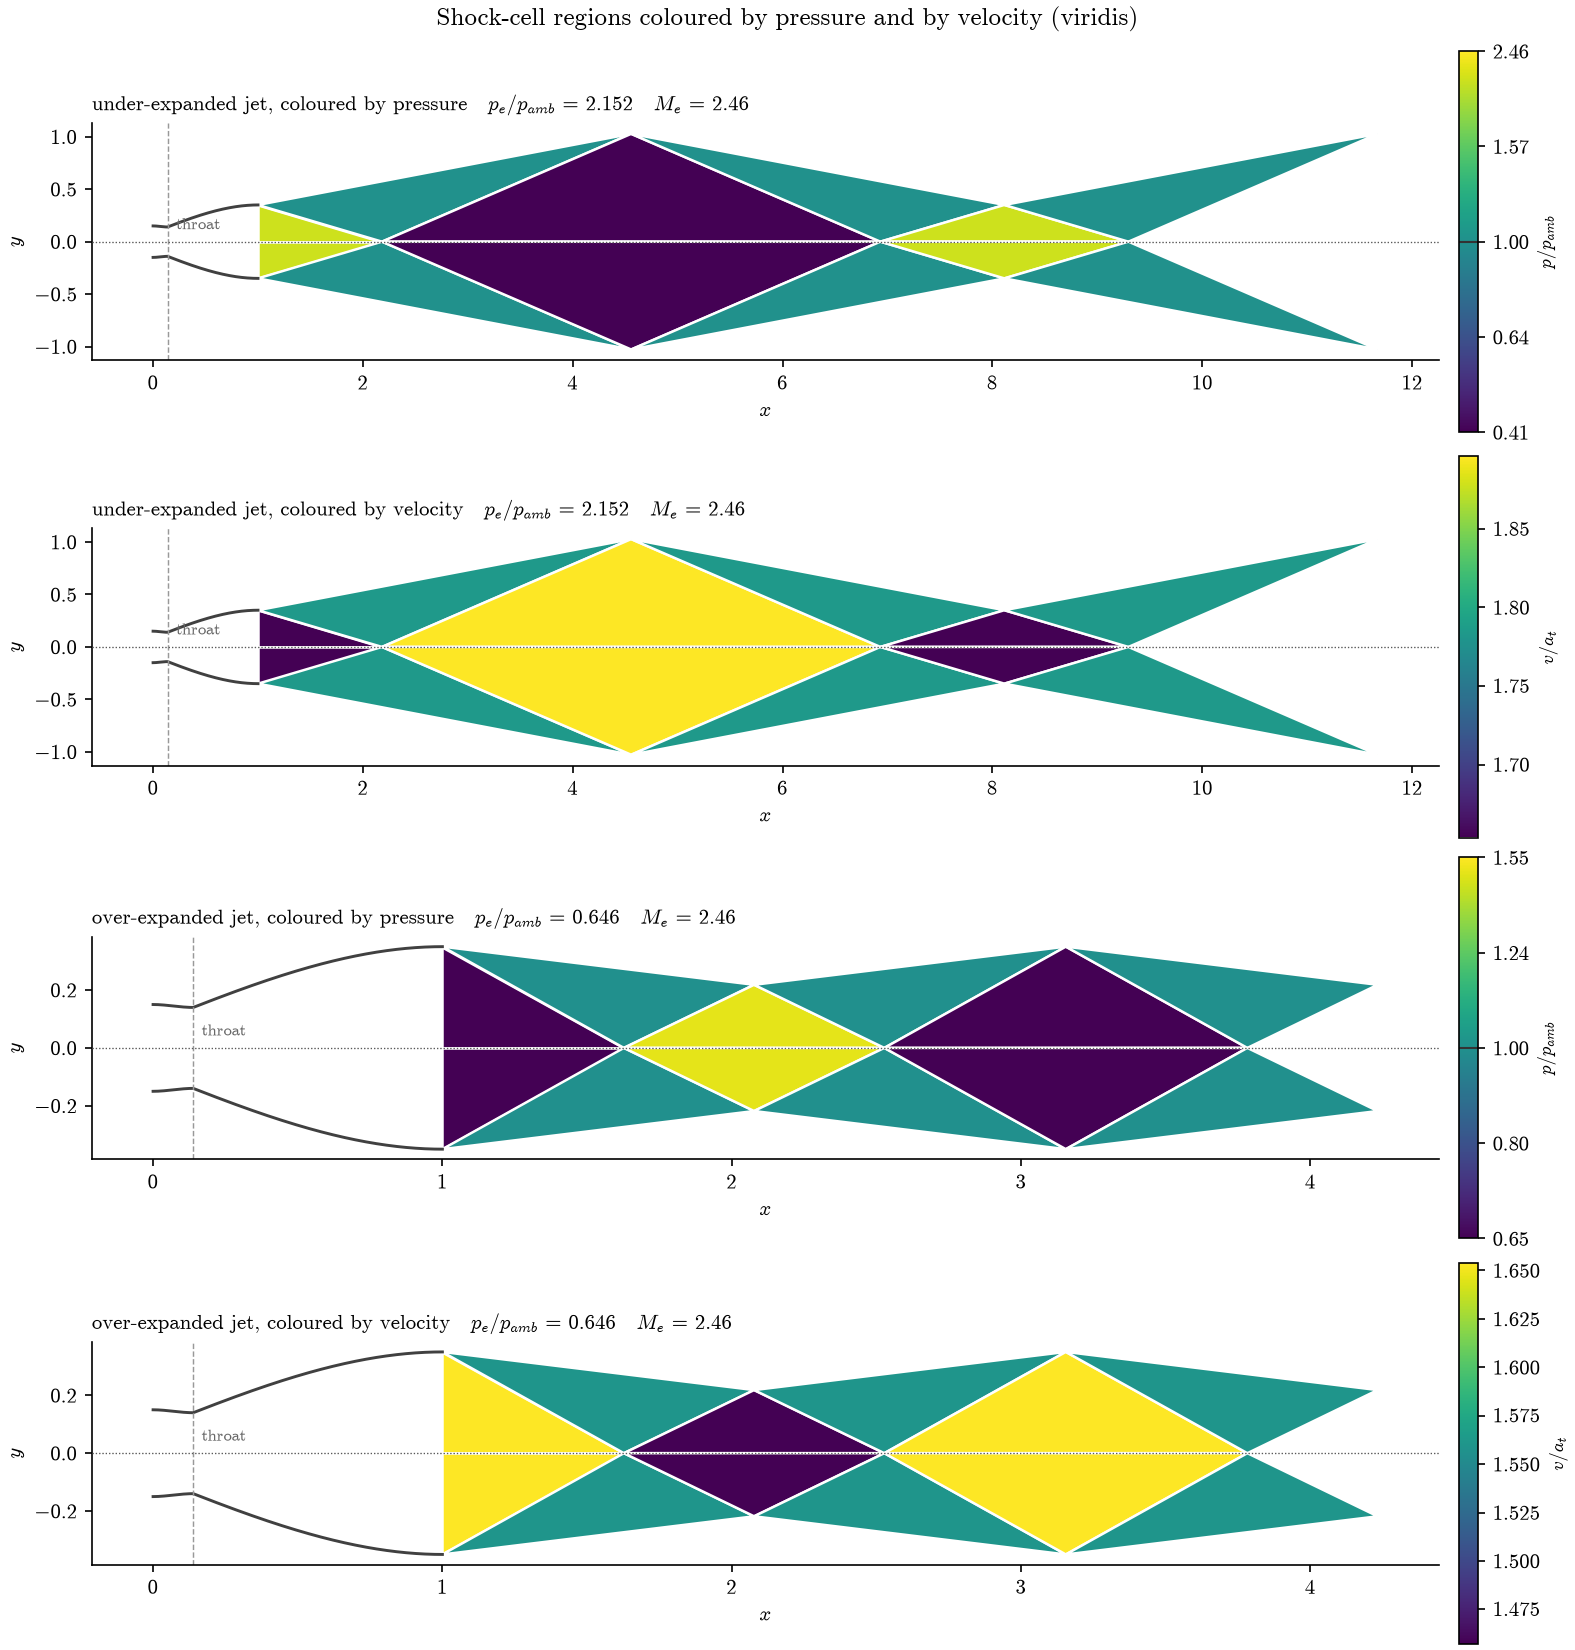
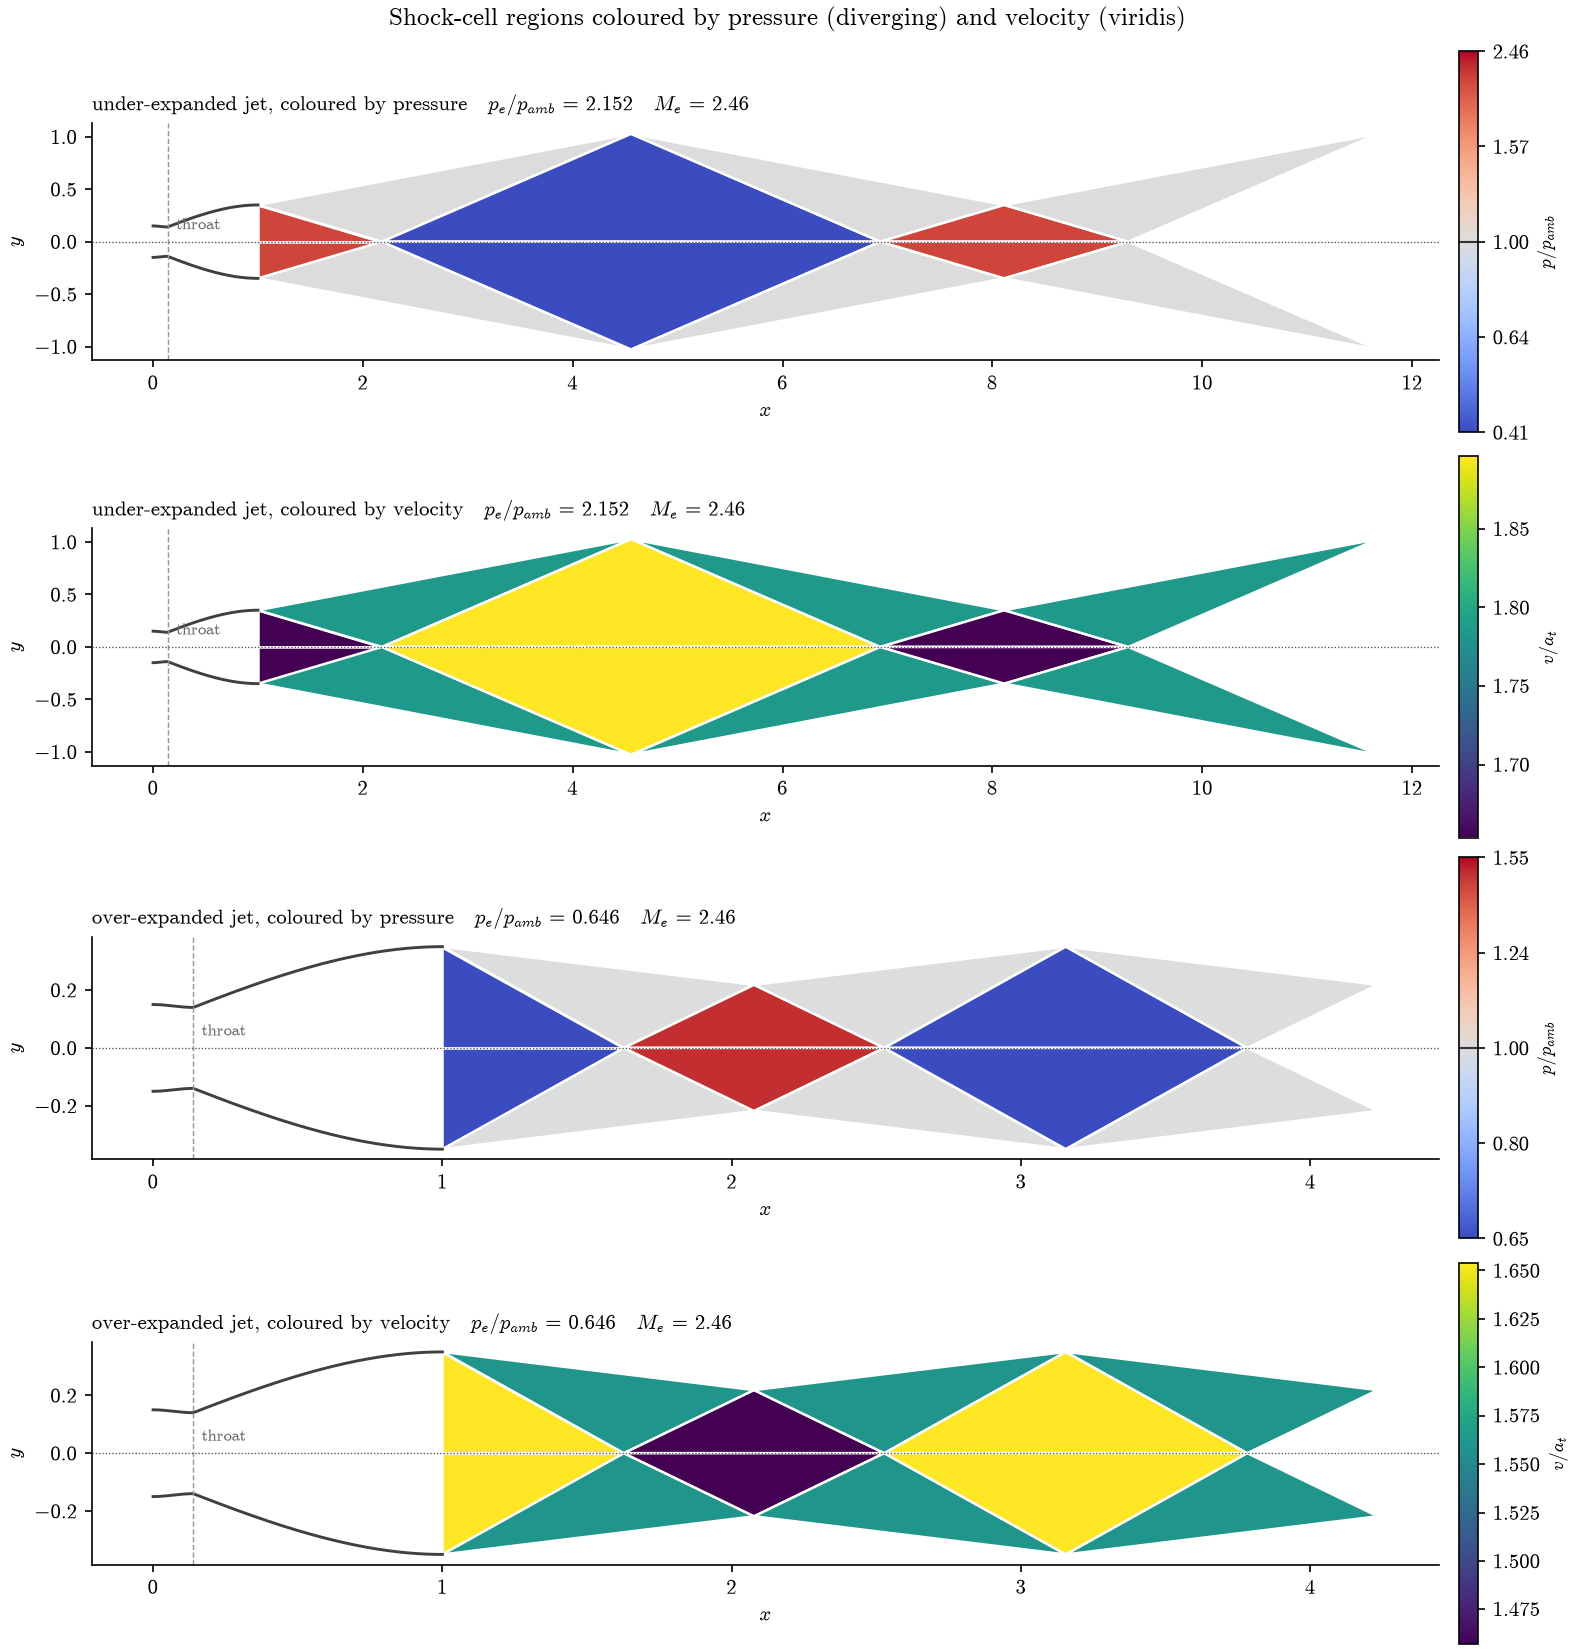
Put pressure back on the diverging ramp
Pressure is a polarity -- which side of ambient a region sits on -- so the
neutral midpoint belongs exactly on p_amb, where the hue carries the sign and
the eye reads it without consulting the colourbar.  Viridis is sequential and
cannot do that however carefully it is labelled.

Velocity and Mach keep viridis, which is the right tool for them: they are
magnitudes with no special middle value, and viridis is perceptually uniform,
monotone in lightness and readable under every common colour-vision
deficiency.  `cmap=` overrides either.

Pressure stays scaled on log(p/p_amb) regardless of ramp, since a pressure
ratio is symmetric in the log and not in the value.

Claude-Session: https://claude.ai/code/session_0167h1eLaz1mHksirvH1NhaP

diff --git a/src/external/plotting.py b/src/external/plotting.py
@@ -383,18 +383,17 @@ def plot_jet_cells(
 #: * **velocity** and **Mach** are *magnitudes* with no special middle value, so
 #:   viridis is exactly the right tool: perceptually uniform, monotone in
 #:   lightness, and readable under every common colour-vision deficiency.
-#: * **pressure** is really a *polarity* -- above or below the ambient the jet is
-#:   trying to match.  A diverging ramp would put a neutral midpoint on
-#:   :math:`p_{amb}` and let the eye read the sign straight off.  Viridis is
-#:   sequential, so that sign has to be read from the colourbar instead, where
-#:   ambient is drawn as an explicit line and the ticks are labelled with the
-#:   ratio.  Pass ``cmap='coolwarm'`` to :func:`plot_jet_field` to get the
-#:   diverging encoding back.
+#: * **pressure** is a *polarity* -- above or below the ambient the jet is trying
+#:   to match -- so it keeps a diverging ramp, whose neutral midpoint sits
+#:   exactly on :math:`p_{amb}`.  That puts the sign in the hue, where the eye
+#:   reads it without consulting the colourbar, which a sequential ramp cannot
+#:   do however well it is labelled.  Pass ``cmap='viridis'`` to
+#:   :func:`plot_jet_field` for one ramp across every field.
 #:
-#: Still scaled on :math:`\log(p/p_{amb})`, whichever ramp is used, because a
-#: pressure ratio is symmetric in the log and not in the value.
+#: Pressure is scaled on :math:`\log(p/p_{amb})` whichever ramp is used, because
+#: a pressure ratio is symmetric in the log and not in the value.
 FIELD_RAMPS = {
-    "pressure": ("viridis", "diverging", r"$p / p_{amb}$"),
+    "pressure": ("coolwarm", "diverging", r"$p / p_{amb}$"),
     "velocity": ("viridis", "sequential", r"$v / a_t$"),
     "mach": ("viridis", "sequential", r"$M$"),
 }

diff --git a/docs/workflows.md b/docs/workflows.md
@@ -189,7 +189,8 @@ two quantities are encoded differently on purpose: pressure is a *polarity* —
 which side of ambient a region sits on — so it gets a diverging ramp pinned at
 `p_amb`, on `log(p/p_amb)` so that twice ambient and half ambient are equal and
 opposite departures. Velocity is a magnitude with no special middle value, so it
-gets a single-hue sequential ramp.
+gets viridis — perceptually uniform, monotone in lightness, and readable under
+every common colour-vision deficiency. Pass `cmap=` to override either.
 
 ![Shock-cell fields](figures/jet_fields.png)
 
